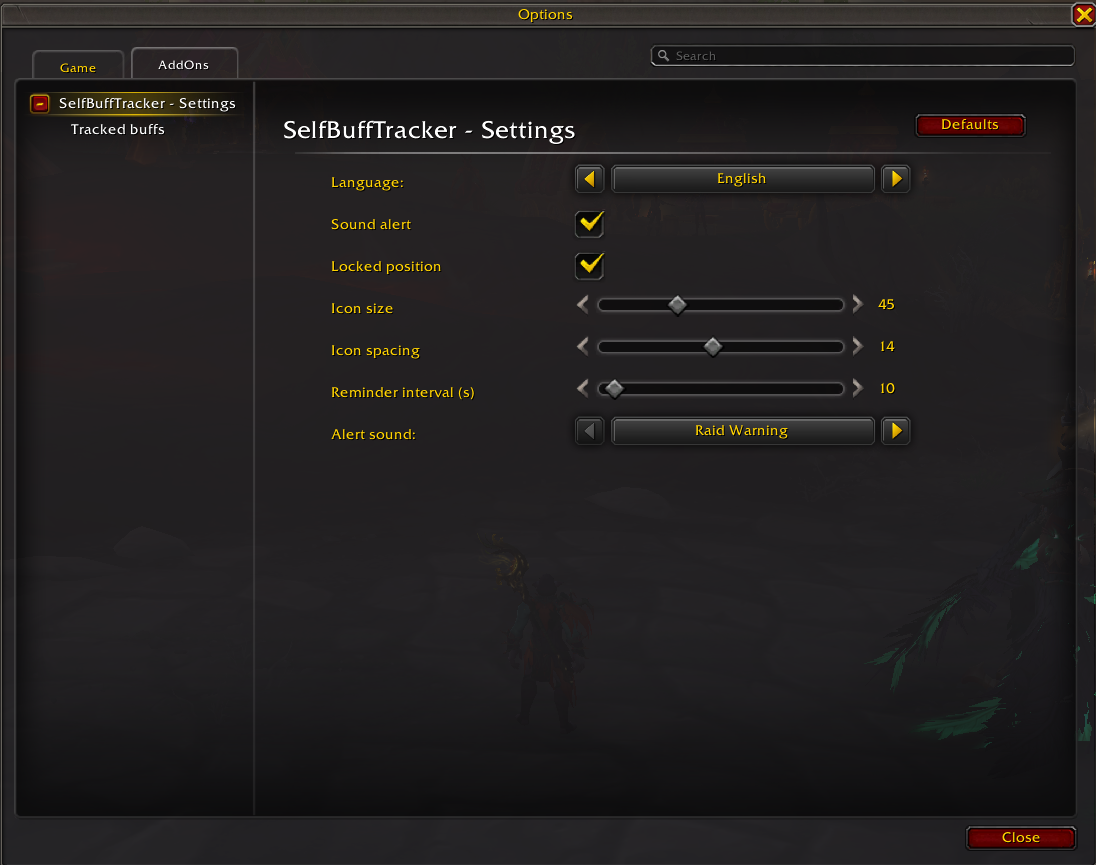
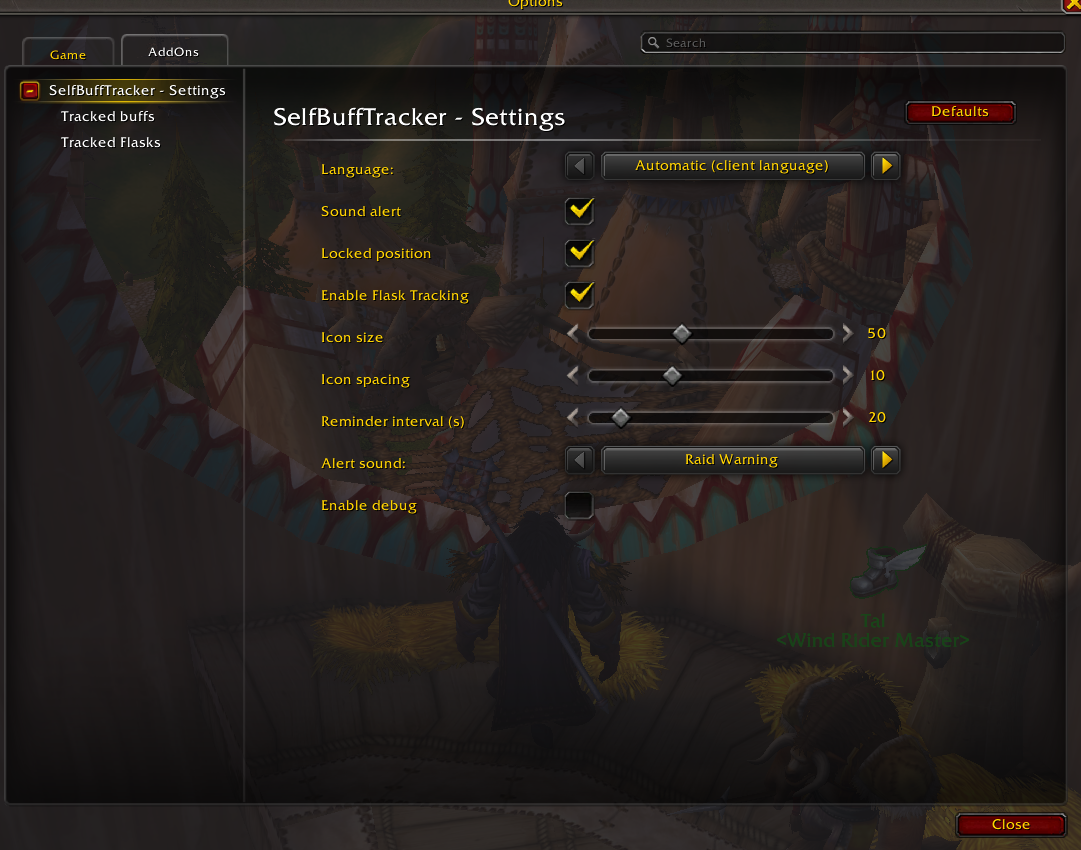
[Update] screenshoots for current version

diff --git a/README.md b/README.md
@@ -23,7 +23,9 @@
   <br>
   <img src="docs/images/settings.png" alt="Settings" width="45%">
   <img src="docs/images/settings_buffs.png" alt="Settings" width="45%">
+  <br>
   <img src="docs/images/settings_buffs_spellbook.png" alt="Settings" width="45%">
+  <img src="docs/images/settings_flasks_picker.png" alt="Settings" width="45%">
 </p>
 
 ***
